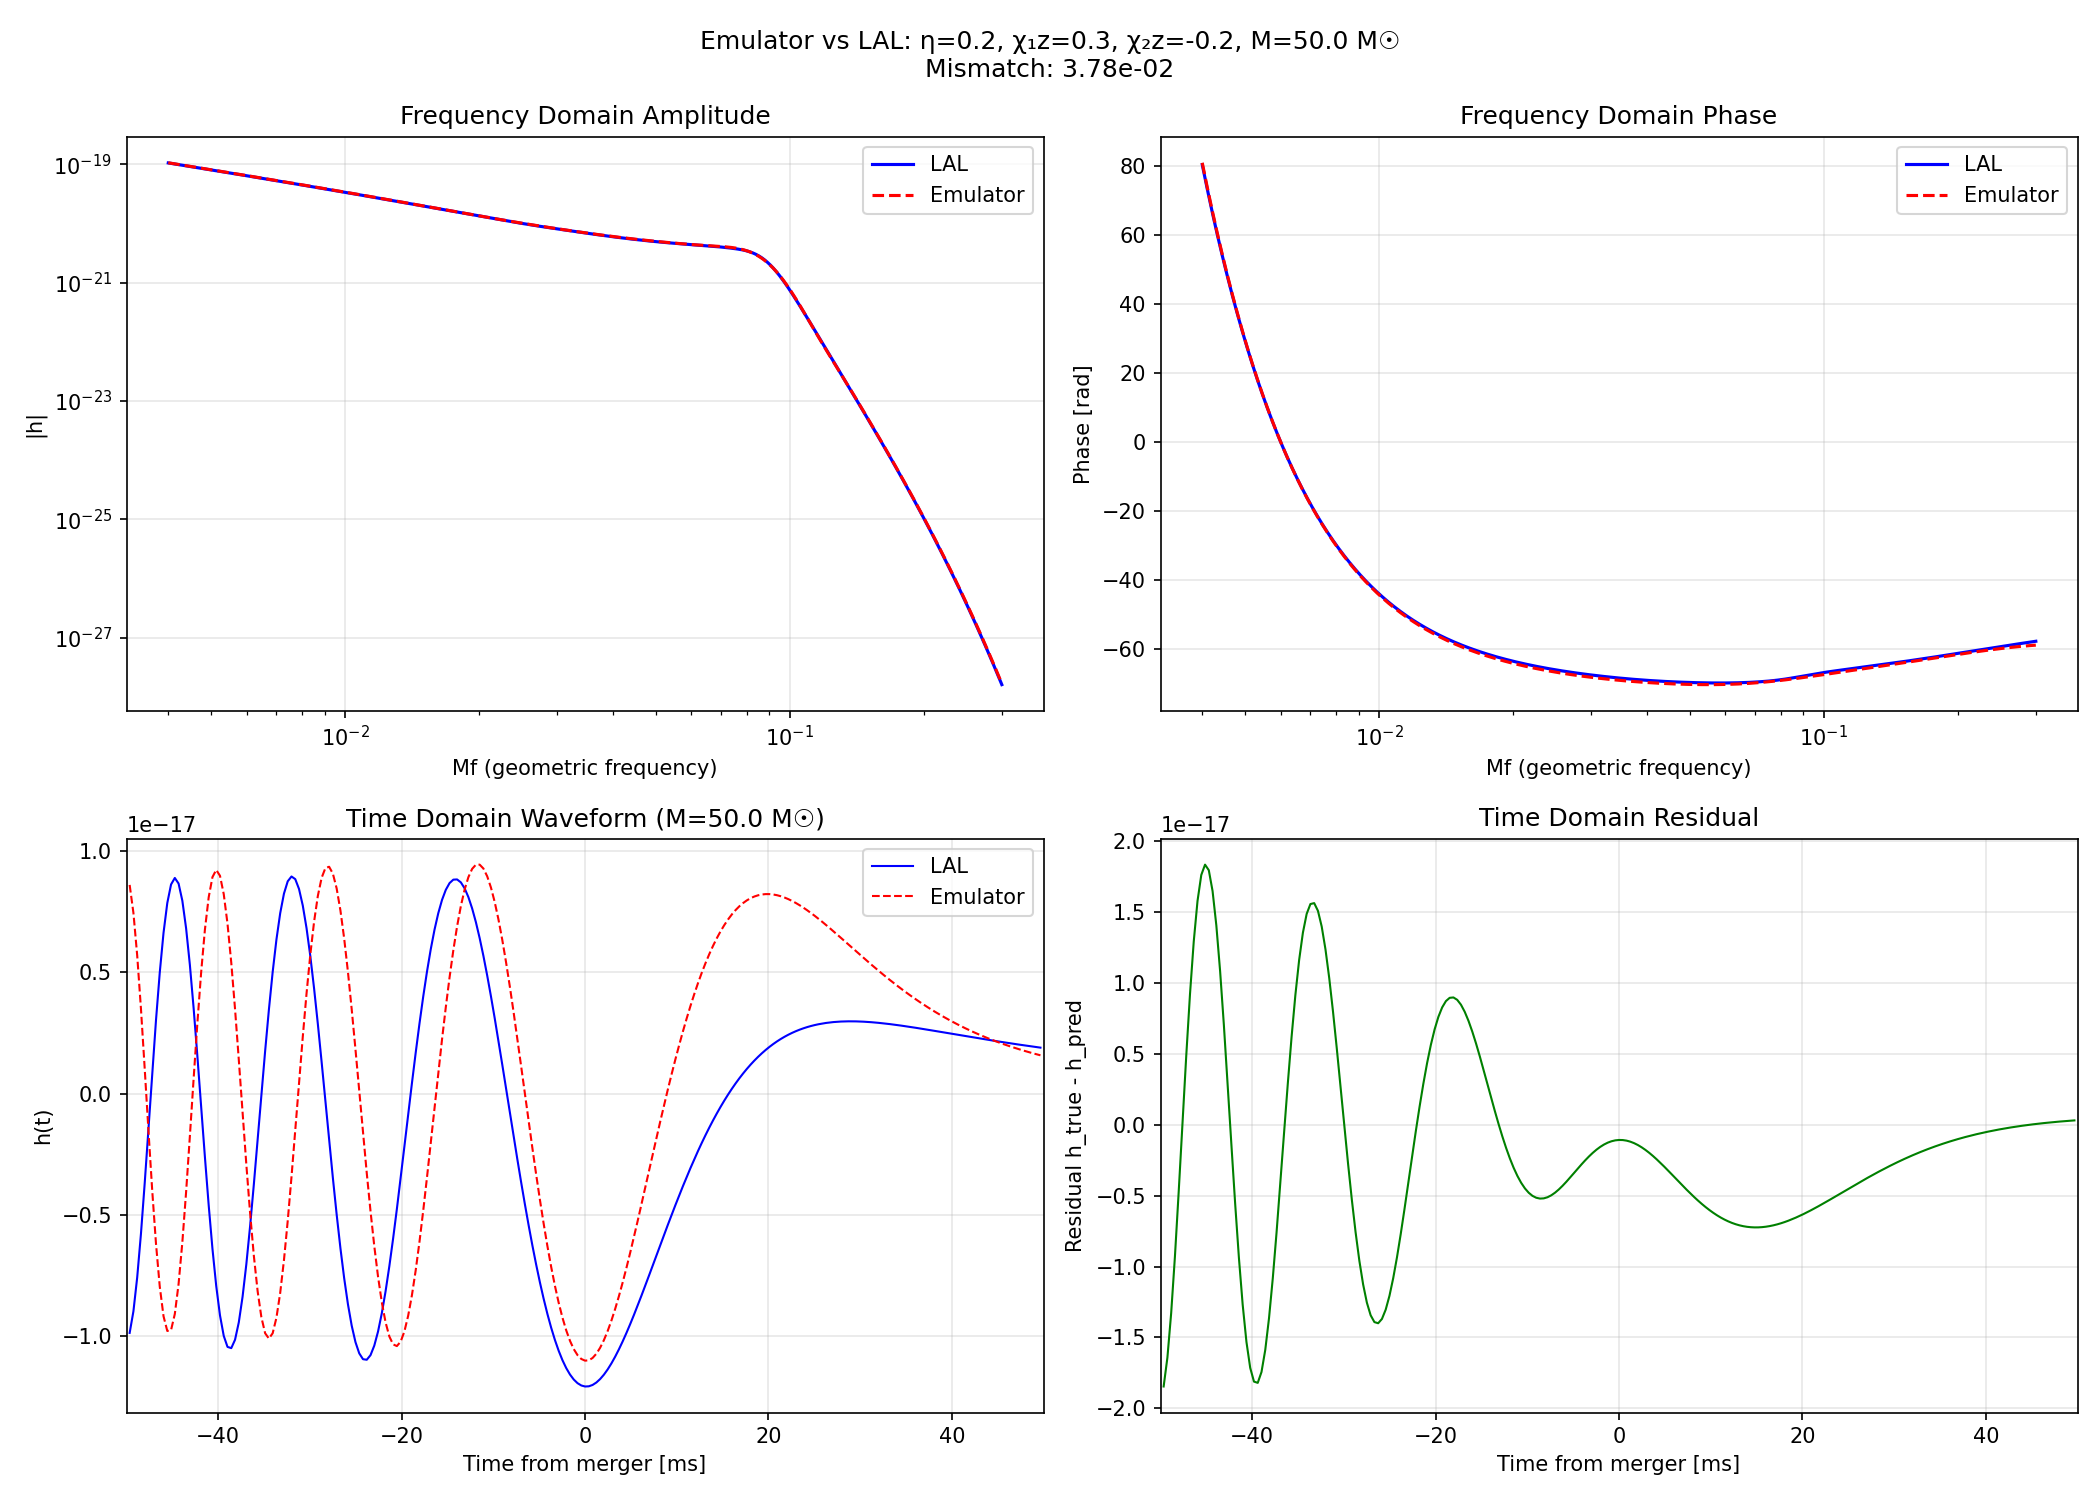
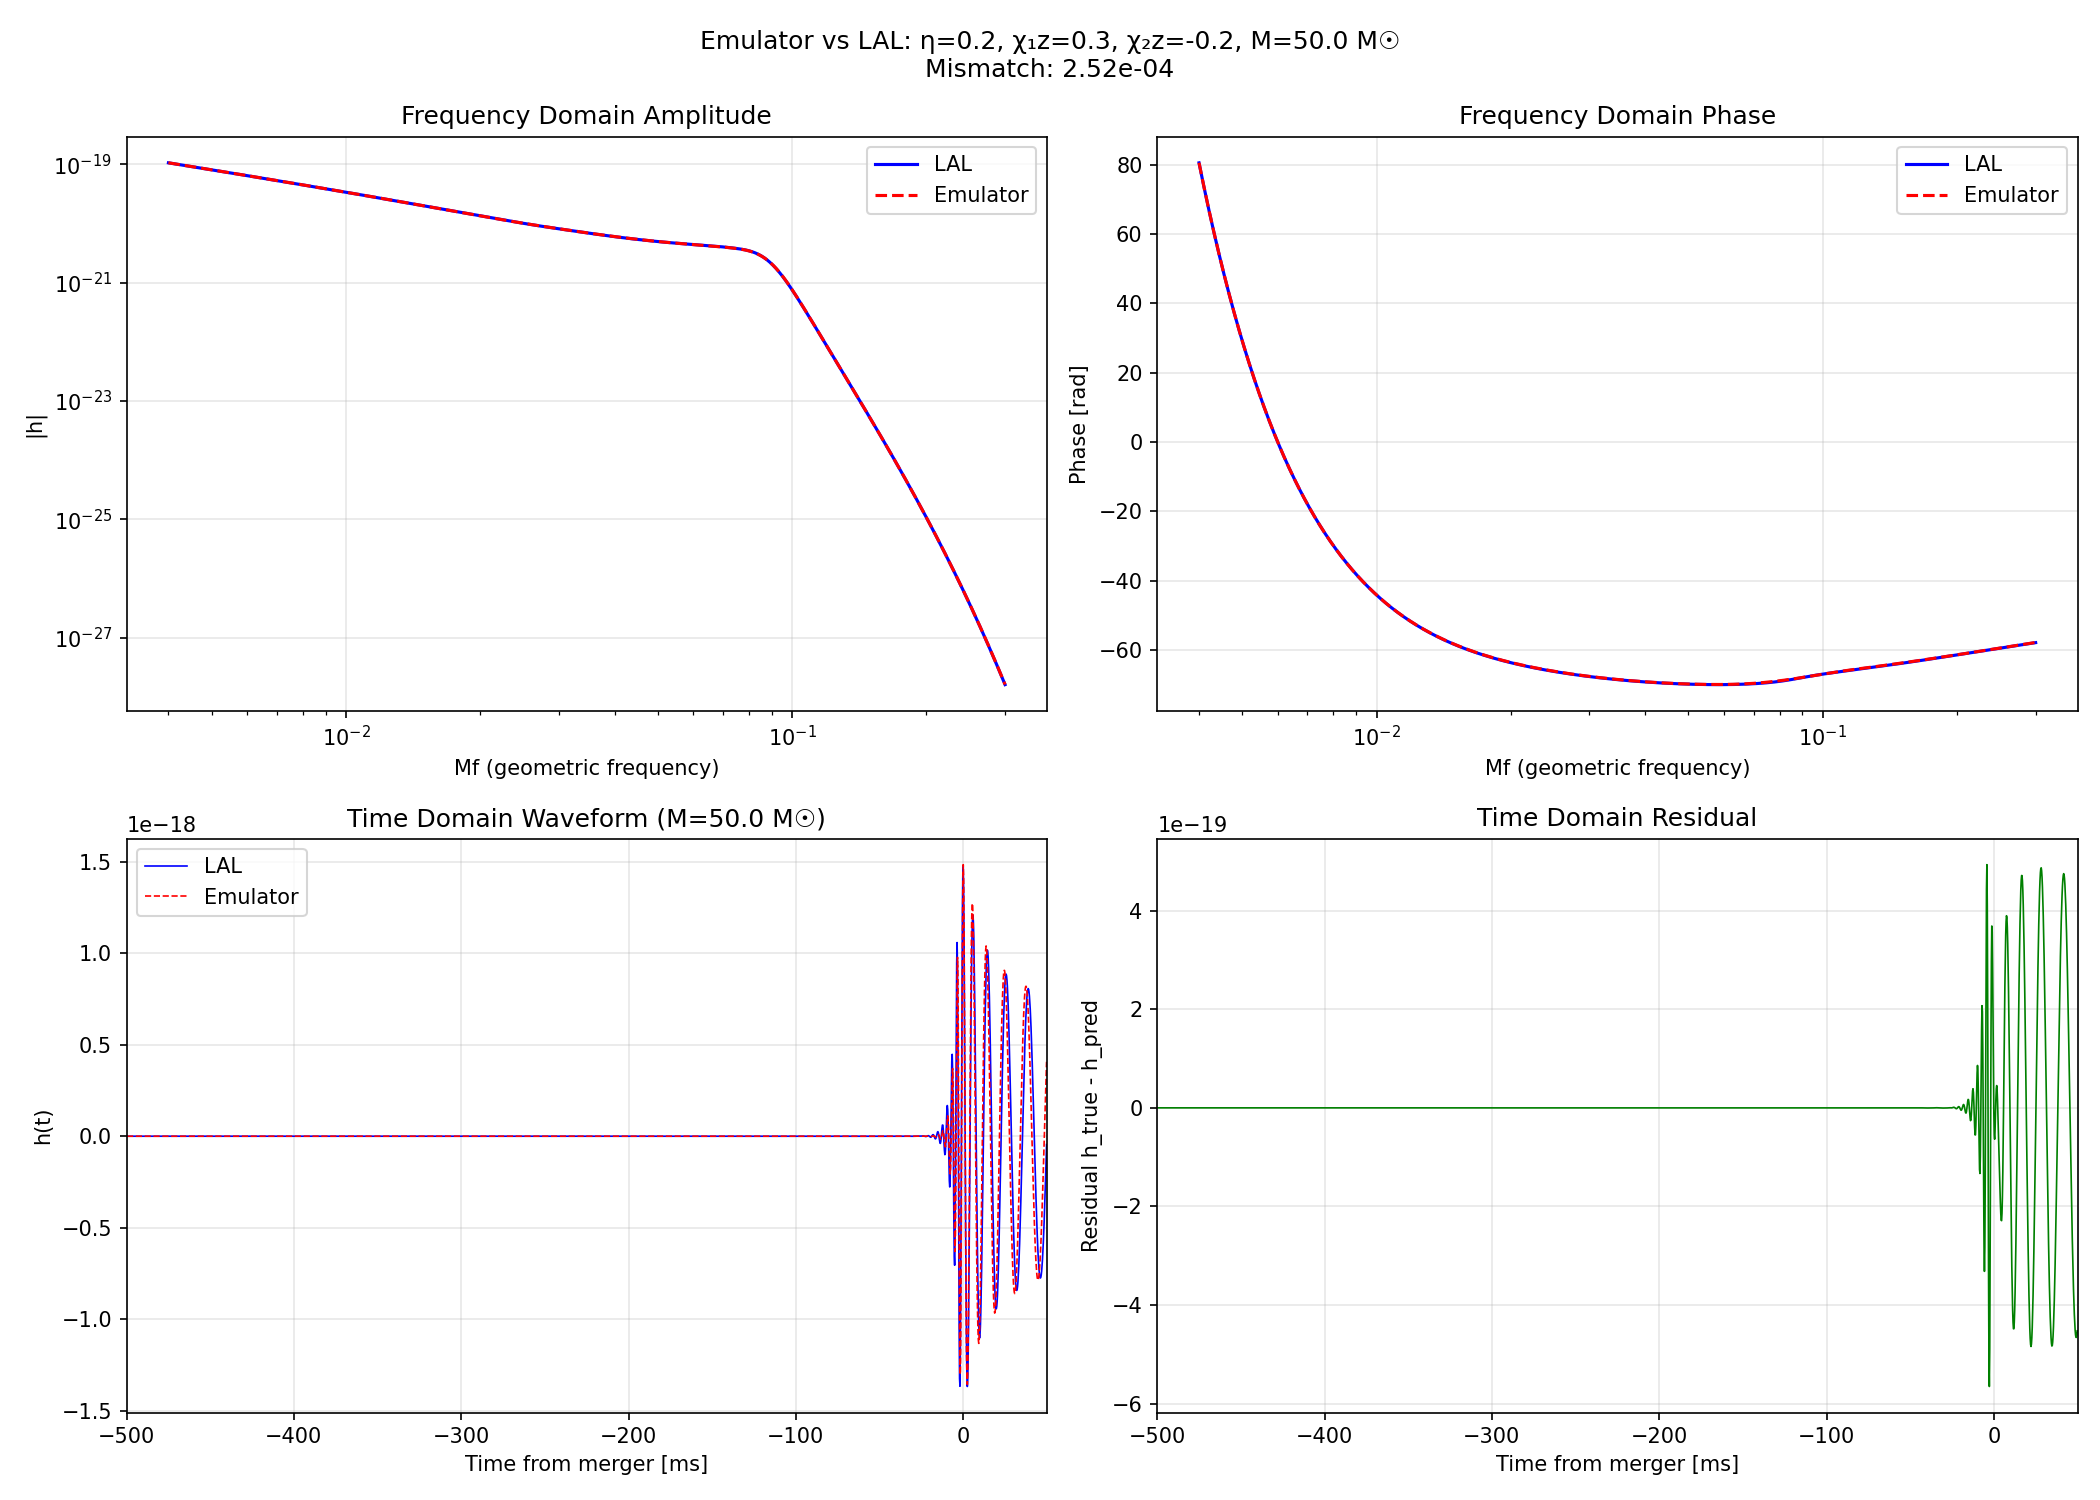
Fix time-domain IFFT transformation for waveform visualization
Key fixes based on Gemini review:
- Interpolate smooth quantities (log-amp, phase) not oscillatory (real, imag)
- Use rfftfreq for proper FFT frequency grid alignment
- Apply sin^2 taper strictly within valid frequency range
- Use phase extrapolation to avoid discontinuity artifacts
- Roll arrays to center waveform (handle FFT circular boundaries)
- Extend time window to show inspiral (500ms before merger)

Also documented interpolation as scientific anti-pattern in CLAUDE.md.

🤖 Generated with [Claude Code](https://claude.com/claude-code)

diff --git a/scripts/validate_emulator.py b/scripts/validate_emulator.py
@@ -168,37 +168,112 @@ def main():
         Mf_grid, args.eta, args.chi1z, args.chi2z, args.mass
     )
 
-    # Compute mismatch
-    mismatch, overlap = compute_mismatch(h_true, h_pred)
-    print(f"\nSimple (unweighted) overlap: {overlap:.6f}")
-    print(f"Simple mismatch: {mismatch:.2e}")
+    # Compute mismatch with proper df weights for log-spaced grid
+    df = np.empty_like(f_physical)
+    df[1:-1] = 0.5 * (f_physical[2:] - f_physical[:-2])
+    df[0] = f_physical[1] - f_physical[0]
+    df[-1] = f_physical[-1] - f_physical[-2]
 
-    # Time domain via IFFT
-    n_freq = len(Mf_grid)
-    n_fft = 2 ** int(np.ceil(np.log2(2 * n_freq)))
+    inner = np.abs(np.sum(np.conj(h_true) * h_pred * df))
+    norm_true = np.sqrt(np.real(np.sum(np.conj(h_true) * h_true * df)))
+    norm_pred = np.sqrt(np.real(np.sum(np.conj(h_pred) * h_pred * df)))
+    overlap = inner / (norm_true * norm_pred)
+    mismatch = 1 - overlap
 
-    h_pred_full = np.zeros(n_fft, dtype=complex)
-    h_true_full = np.zeros(n_fft, dtype=complex)
+    print(f"\nWeighted overlap: {overlap:.6f}")
+    print(f"Weighted mismatch: {mismatch:.2e}")
 
-    h_pred_full[1:n_freq+1] = h_pred
-    h_true_full[1:n_freq+1] = h_true
+    # Time domain via IFFT - must interpolate to uniform frequency grid first
+    # Key insight: interpolate SMOOTH quantities (log-amp, phase) not oscillatory (real, imag)
+    from scipy.interpolate import interp1d
 
-    # Conjugate symmetry
-    h_pred_full[n_fft-n_freq+1:] = np.conj(h_pred[::-1][:-1])
-    h_true_full[n_fft-n_freq+1:] = np.conj(h_true[::-1][:-1])
+    # Setup time/frequency grid
+    # Choose sampling rate > 2 * f_max and duration long enough for the chirp
+    Fs = 4096.0  # Hz - sufficient for 50 Msun (ringdown ~300 Hz)
+    dt = 1.0 / Fs
+    T_obs = 4.0  # seconds - plenty for BBH at this mass
+    N = int(T_obs * Fs)
 
-    h_pred_td = np.fft.ifft(h_pred_full) * n_fft
-    h_true_td = np.fft.ifft(h_true_full) * n_fft
+    # Create exact FFT frequency grid (rfftfreq gives [0, df, ..., Nyquist])
+    f_uniform = np.fft.rfftfreq(N, d=dt)
 
-    # Time array
-    dt = 1.0 / (2 * f_physical[-1])
+    # Interpolate SMOOTH quantities: log-amplitude and unwrapped phase
+    # DO NOT interpolate real/imag - they are highly oscillatory!
+    phase_true_unwrapped = np.unwrap(np.angle(h_true))
 
-    # Find merger
-    peak_idx_pred = np.argmax(np.abs(h_pred_td))
+    # Interpolators for LAL waveform
+    # Use extrapolate for phase to avoid discontinuity at boundaries
+    interp_log_amp_true = interp1d(f_physical, np.log(np.abs(h_true)), kind='cubic',
+                                   bounds_error=False, fill_value=-np.inf)
+    interp_phase_true = interp1d(f_physical, phase_true_unwrapped, kind='cubic',
+                                 bounds_error=False, fill_value="extrapolate")
+
+    # Interpolators for emulator (already have log_amp and unwrapped phase)
+    interp_log_amp_pred = interp1d(f_physical, log_amp_pred * np.log(10), kind='cubic',
+                                   bounds_error=False, fill_value=-np.inf)
+    interp_phase_pred = interp1d(f_physical, phase_pred, kind='cubic',
+                                 bounds_error=False, fill_value="extrapolate")
+
+    # Evaluate on uniform grid
+    log_amp_true_uniform = interp_log_amp_true(f_uniform)
+    phase_true_uniform = interp_phase_true(f_uniform)
+    log_amp_pred_uniform = interp_log_amp_pred(f_uniform)
+    phase_pred_uniform = interp_phase_pred(f_uniform)
+
+    # Reconstruct complex waveform on uniform grid
+    amp_true_uniform = np.exp(log_amp_true_uniform)
+    amp_true_uniform[~np.isfinite(amp_true_uniform)] = 0.0
+
+    amp_pred_uniform = np.exp(log_amp_pred_uniform)
+    amp_pred_uniform[~np.isfinite(amp_pred_uniform)] = 0.0
+
+    h_true_fft = amp_true_uniform * np.exp(1j * phase_true_uniform)
+    h_pred_fft = amp_pred_uniform * np.exp(1j * phase_pred_uniform)
+
+    # Apply tapering to avoid Gibbs ringing from sharp cutoff at f_min
+    # IMPORTANT: Taper must be strictly zero below f_min_phys (where we have no data)
+    # and smoothly rise starting AT f_min_phys (not before!)
+    f_min_phys = f_physical[0]
+    f_max_phys = f_physical[-1]
+    taper_width = 10.0  # Hz
+
+    taper = np.ones_like(f_uniform)
+
+    # Strictly zero below f_min_phys
+    taper[f_uniform < f_min_phys] = 0.0
+
+    # Smooth rise from f_min_phys to f_min_phys + taper_width (sin^2 window)
+    mask_rise = (f_uniform >= f_min_phys) & (f_uniform < f_min_phys + taper_width)
+    x_rise = (f_uniform[mask_rise] - f_min_phys) / taper_width
+    taper[mask_rise] = np.sin(np.pi / 2 * x_rise) ** 2
+
+    # Optional: taper down at high frequencies too
+    mask_fall = (f_uniform > f_max_phys - taper_width) & (f_uniform <= f_max_phys)
+    x_fall = (f_max_phys - f_uniform[mask_fall]) / taper_width
+    taper[mask_fall] = np.sin(np.pi / 2 * x_fall) ** 2
+    taper[f_uniform > f_max_phys] = 0.0
+
+    h_true_fft *= taper
+    h_pred_fft *= taper
+
+    # IFFT to time domain (irfft includes 1/N, multiply by Fs to recover integral)
+    h_true_td = np.fft.irfft(h_true_fft) * Fs
+    h_pred_td = np.fft.irfft(h_pred_fft) * Fs
+
+    # Roll arrays to center the waveform - FFT wraps "past" to end of array
+    n_samples = len(h_true_td)
+    h_true_td = np.roll(h_true_td, n_samples // 2)
+    h_pred_td = np.roll(h_pred_td, n_samples // 2)
+
+    t = np.arange(len(h_true_td)) * dt
+
+    # Find merger (peak amplitude)
     peak_idx_true = np.argmax(np.abs(h_true_td))
+    peak_idx_pred = np.argmax(np.abs(h_pred_td))
 
-    t_centered_pred = (np.arange(n_fft) - peak_idx_pred) * dt * 1000  # ms
-    t_centered_true = (np.arange(n_fft) - peak_idx_true) * dt * 1000  # ms
+    n_td = len(h_true_td)
+    t_centered_pred = (np.arange(n_td) - peak_idx_pred) * dt * 1000  # ms
+    t_centered_true = (np.arange(n_td) - peak_idx_true) * dt * 1000  # ms
 
     # Plot
     fig, axes = plt.subplots(2, 2, figsize=(14, 10))
@@ -227,31 +302,32 @@ def main():
     ax.legend()
     ax.grid(True, alpha=0.3)
 
-    # Time domain
+    # Time domain - show inspiral before merger and ringdown after
     ax = axes[1, 0]
-    window = 50  # ms
-    mask_true = np.abs(t_centered_true) < window
-    mask_pred = np.abs(t_centered_pred) < window
-    ax.plot(t_centered_true[mask_true], np.real(h_true_td)[mask_true], 'b-', label='LAL', linewidth=1)
-    ax.plot(t_centered_pred[mask_pred], np.real(h_pred_td)[mask_pred], 'r--', label='Emulator', linewidth=1)
+    window_before = 500  # ms before merger (inspiral)
+    window_after = 50    # ms after merger (ringdown)
+    mask_true = (t_centered_true > -window_before) & (t_centered_true < window_after)
+    mask_pred = (t_centered_pred > -window_before) & (t_centered_pred < window_after)
+    ax.plot(t_centered_true[mask_true], np.real(h_true_td)[mask_true], 'b-', label='LAL', linewidth=0.8)
+    ax.plot(t_centered_pred[mask_pred], np.real(h_pred_td)[mask_pred], 'r--', label='Emulator', linewidth=0.8)
     ax.set_xlabel('Time from merger [ms]')
     ax.set_ylabel('h(t)')
     ax.set_title(f'Time Domain Waveform (M={args.mass} M☉)')
     ax.legend()
     ax.grid(True, alpha=0.3)
-    ax.set_xlim(-window, window)
+    ax.set_xlim(-window_before, window_after)
 
     # Residual
     ax = axes[1, 1]
     shift = peak_idx_true - peak_idx_pred
     h_pred_aligned = np.roll(h_pred_td, shift)
     residual = np.real(h_true_td - h_pred_aligned)
-    ax.plot(t_centered_true[mask_true], residual[mask_true], 'g-', linewidth=1)
+    ax.plot(t_centered_true[mask_true], residual[mask_true], 'g-', linewidth=0.8)
     ax.set_xlabel('Time from merger [ms]')
     ax.set_ylabel('Residual h_true - h_pred')
     ax.set_title('Time Domain Residual')
     ax.grid(True, alpha=0.3)
-    ax.set_xlim(-window, window)
+    ax.set_xlim(-window_before, window_after)
 
     fig.suptitle(
         f'Emulator vs LAL: η={args.eta}, χ₁z={args.chi1z}, χ₂z={args.chi2z}, M={args.mass} M☉\n'

diff --git a/.claude/CLAUDE.md b/.claude/CLAUDE.md
@@ -152,3 +152,21 @@ Comprehensive framework for arbitrary GW waveforms including precession:
 - Use sin/cos representation for angles to avoid 2π discontinuities
 
 **Citations:** Blackman (2015/2017), Varma (2019), Boyle (2011), Schmidt (2011)
+
+## Scientific Computing Anti-Patterns
+
+### Interpolation Between Grids
+
+**NEVER interpolate data when converting between different grid representations.** This is a major source of errors in scientific computing.
+
+Problems with interpolation:
+- Introduces numerical artifacts and smoothing errors
+- Destroys high-frequency information
+- Can create spurious oscillations (Runge phenomenon)
+- Errors compound when interpolating oscillatory functions (e.g., Real/Imag parts of complex waveforms)
+
+**Instead:**
+- Design the workflow to avoid grid conversions entirely
+- If grid conversion is unavoidable, interpolate SMOOTH quantities only (e.g., log-amplitude and phase, not real and imaginary parts)
+- Consider whether the target operation (e.g., FFT) can be done analytically or via alternative methods
+- Document any unavoidable interpolation as technical debt with clear justification
